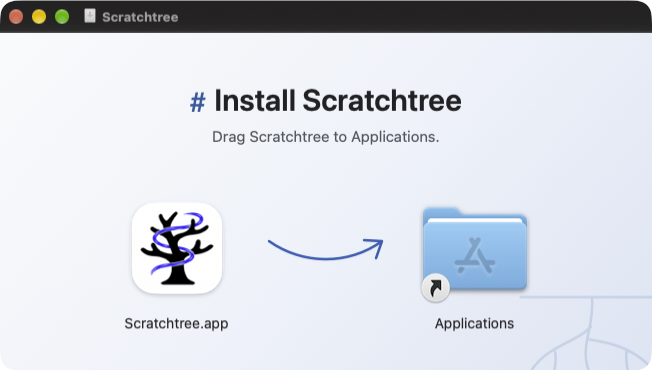
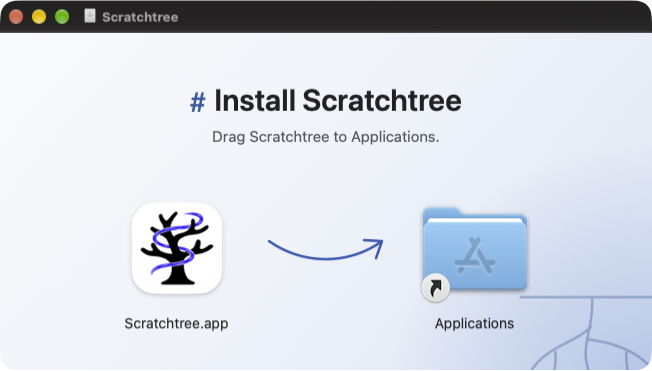
Add two-tone installer artwork and document the Finder view

Changed region(s): [[0.7975, 0.7412, 1.0, 1.0]]

diff --git a/packaging/macos/render-background.swift b/packaging/macos/render-background.swift
@@ -49,7 +49,7 @@ func drawRoots() {
     roots.curve(to: point(14.6, 11.7), controlPoint1: point(9.4, 8), controlPoint2: point(12.6, 8.4))
     roots.move(to: point(11.3, 8.7))
     roots.curve(to: point(12, 13.2), controlPoint1: point(11.1, 10.2), controlPoint2: point(11.7, 11.6))
-    stroke(roots, paint: color(0x00599e, opacity: 0.15))
+    stroke(roots, paint: color(0x245f9a, opacity: 0.40))
 }
 
 func drawInstruction() {
@@ -98,6 +98,13 @@ func render(scale: Int, to url: URL) throws {
     // Finder draws dark filenames over a custom picture, including in Dark appearance.
     let gradient = NSGradient(colors: [color(0xf9fafb), color(0xecf2fa), color(0xd7e4f3)])!
     gradient.draw(in: NSRect(origin: .zero, size: size), angle: 42)
+    let blueFade = NSGradient(colors: [
+        color(0x98bee7, opacity: 0.83),
+        color(0xb1cdeb, opacity: 0.64),
+        color(0xd1e2f2, opacity: 0),
+    ])!
+    let corner = NSPoint(x: 646, y: 369)
+    blueFade.draw(fromCenter: corner, radius: 0, toCenter: corner, radius: 258, options: [])
     drawRoots()
     drawInstruction()
     drawArrow()

diff --git a/README.md b/README.md
@@ -47,6 +47,10 @@ Use **Export backup**, then **Download backup**, to keep a separate BackupV8 fil
 2. Open the downloaded DMG. If Finder does not open the mounted Scratchtree volume, select it under **Locations**. Drag Scratchtree to Applications, or use Command+C to copy Scratchtree from the mounted volume, open Applications with Shift+Command+A, and paste with Command+V. Replace the existing app if prompted. Your app data is stored separately from the app.
 3. Open Scratchtree from Applications. The linked DMG is Developer ID-signed and notarized. If macOS asks you to confirm that you want to open an app downloaded from the internet, click **Open**.
 
+![Scratchtree on the left and a curved arrow pointing to Applications on the right](docs/media/mac-installer.png)
+
+_Scratchtree 0.3.4 installer preview. Earlier versions use Finder's standard icon view._
+
 Save the checksum file beside the DMG and verify the Mac entry in that folder.
 
 ```sh

diff --git a/docs/RELEASING.md b/docs/RELEASING.md
@@ -87,7 +87,7 @@ If macOS requests Keychain access, identify the exact requesting build and item 
 
 ## Package and inspect the DMG
 
-The [Mac packaging script](../packaging/macos/build-dmg.py) wraps the staged app in the branded Finder layout. It generates the light artwork at both display scales so Finder's dark filenames stay readable. It also adds the native Applications shortcut. Signing the DMG comes after packaging.
+The [Mac packaging script](../packaging/macos/build-dmg.py) wraps the staged app in the branded Finder layout. It renders the light artwork with a blue fade around the Root mark at both display scales. The light background keeps Finder's dark filenames readable. The script also adds the native Applications shortcut. Sign the DMG after packaging.
 
 ![Finder window with Scratchtree on the left and a curved arrow pointing to Applications on the right](media/mac-installer.png)
 
